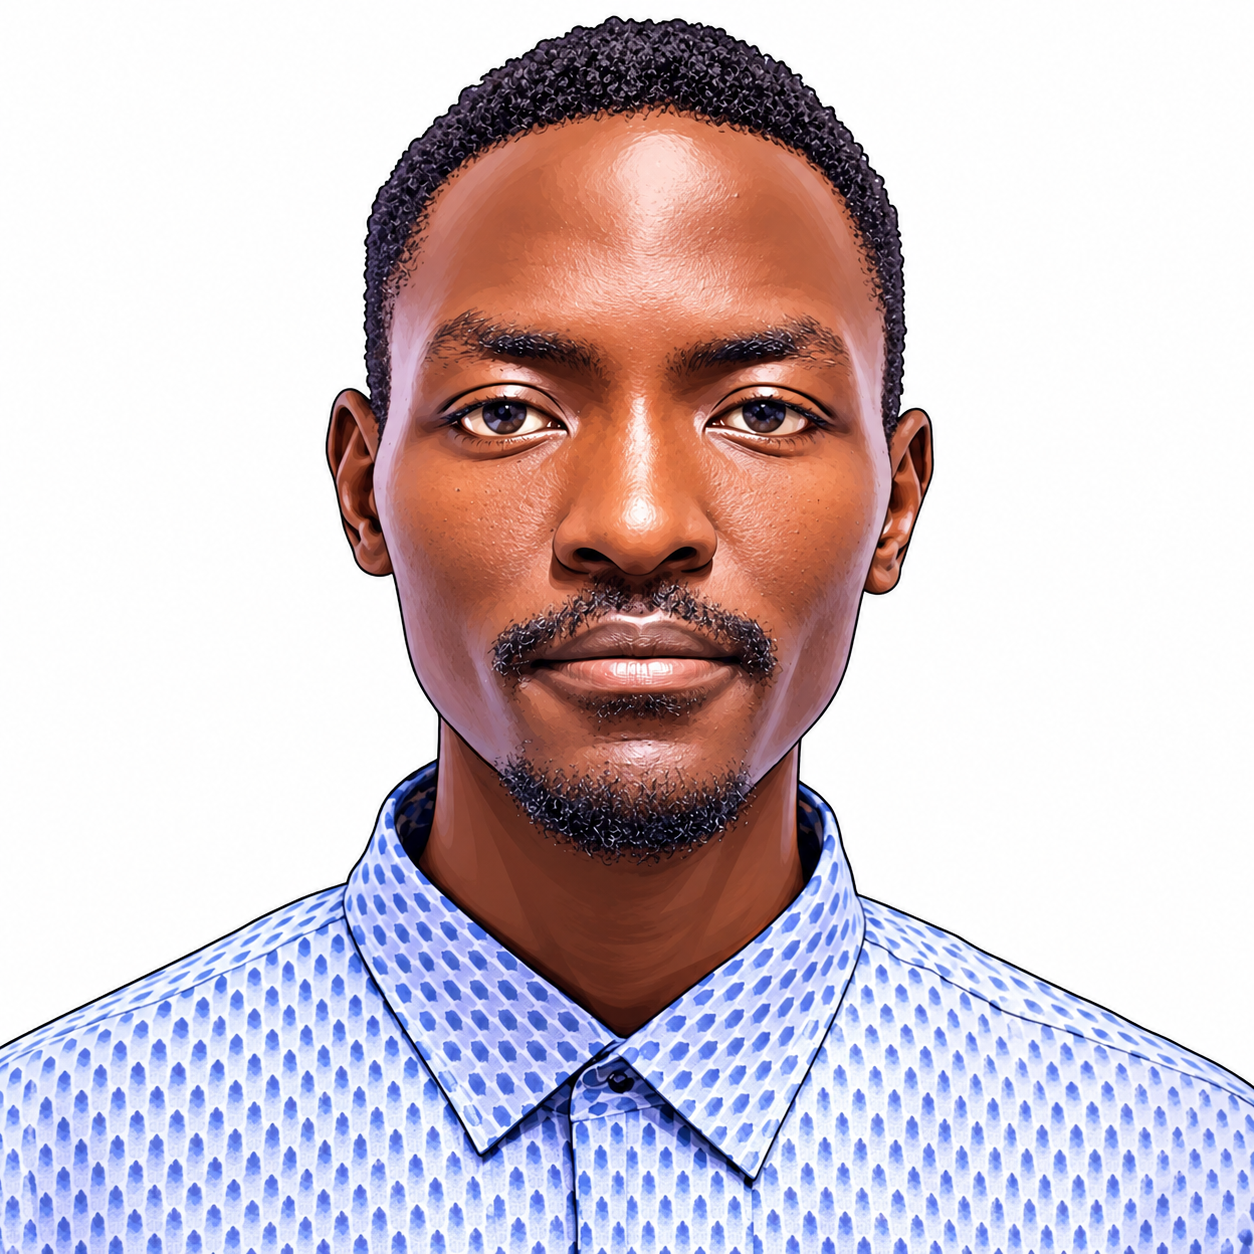
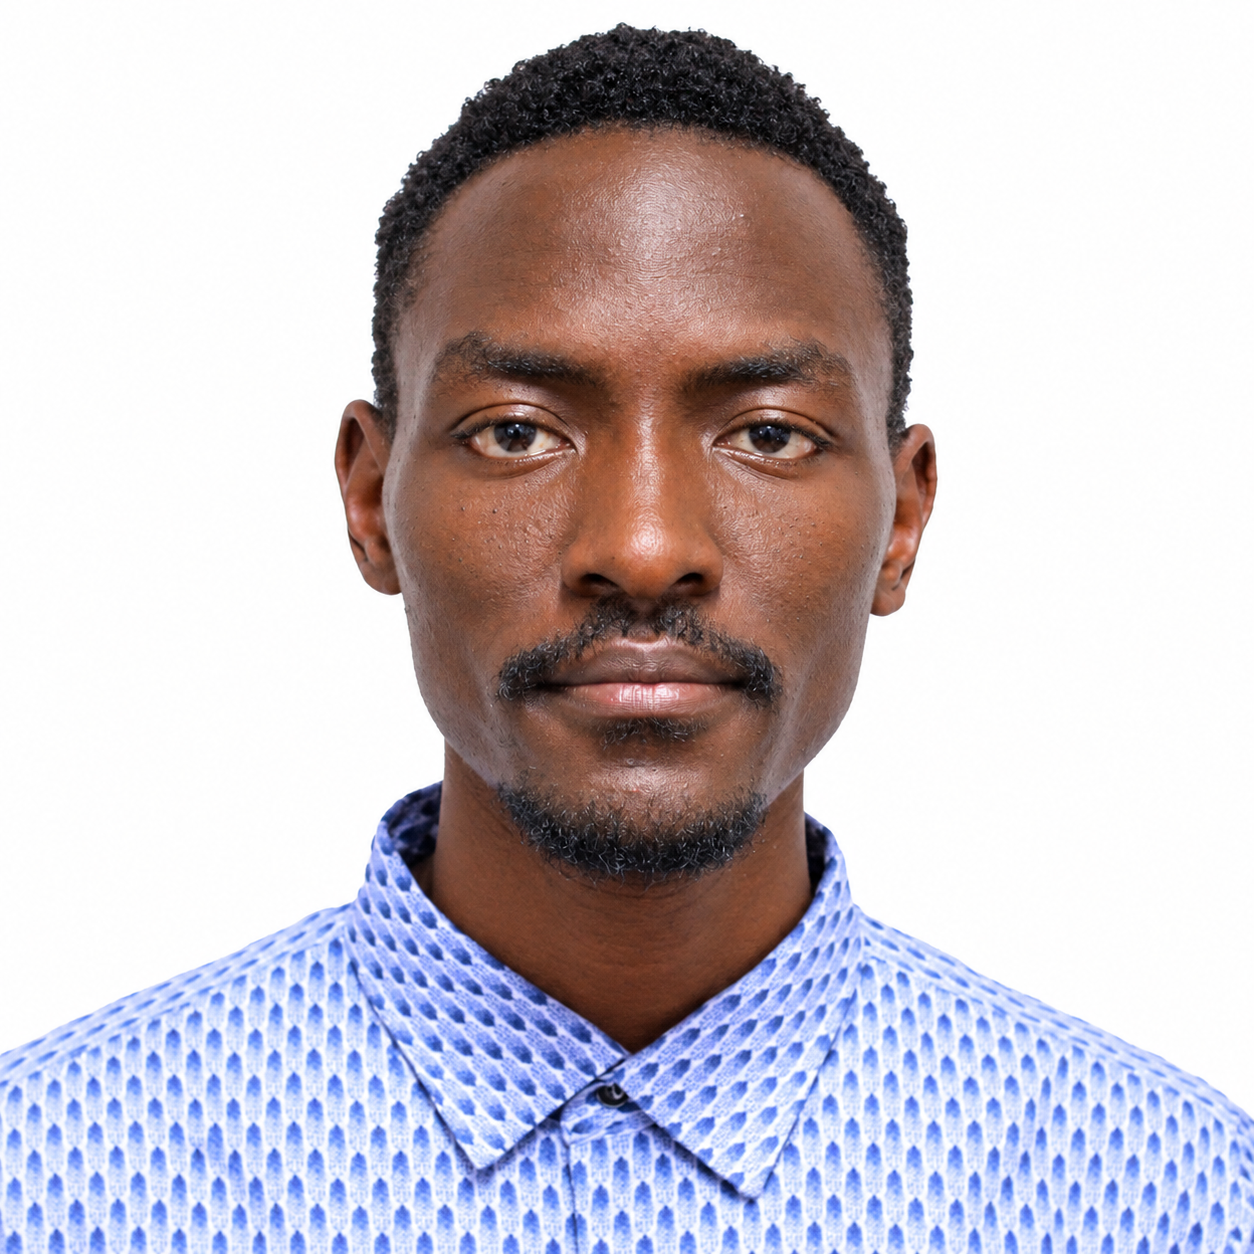
Add files via upload

diff --git a/about.html b/about.html
@@ -218,7 +218,7 @@ We are building a home for animation — and an ecosystem for the people who bri
                 <div class="team-grid">
 
                     <article class="team-card">
-                        <img src="FOUNDER (2).png" alt="Placeholder portrait for the founder">
+                        <img src="FOUNDER.png" alt="Placeholder portrait for the founder">
 
                         <div class="team-card-body">
                             <span class="team-role">Founder</span>
@@ -448,7 +448,7 @@ Coordinates creator onboarding and engagement, helping animators understand the 
 
         <div class="container footer-bottom">
             <span>© <span id="year"></span> Nettoon. All rights reserved.</span>
-            <span  style="display: none;">Built for the worlds we haven’t imagined yet.</span>
+         
             <a href="index.html#top">Back to top ↑</a>
         </div>
 

diff --git a/creators.html b/creators.html
@@ -315,7 +315,7 @@ In biology, an ecosystem is a community of living organisms (biotic factors) int
 
             <div class="footer-note">
 
-                <span class="footer-note-label">OUR NORTH STAR</span>
+                <span class="footer-note-label" style="display: none;">OUR NORTH STAR</span>
 
                 <p>What if the only limit to animation was your Imagination?</p>
 
@@ -329,7 +329,7 @@ In biology, an ecosystem is a community of living organisms (biotic factors) int
 
             <span>© <span id="year"></span> Nettoon. All rights reserved.</span>
 
-            <span>Built for the worlds we haven’t imagined yet.</span>
+   
 
             <a href="index.html#top">Back to top ↑</a>
 

diff --git a/contact.html b/contact.html
@@ -241,11 +241,11 @@
 
             <div class="footer-note">
 
-                <span class="footer-note-label">OUR NORTH STAR</span>
+                <span class="footer-note-label" style="display: none;">OUR NORTH STAR</span>
 
                 <p>Make animation easier to find, share, and experience.</p>
 
-                <span class="footer-symbol">✳</span>
+        
 
             </div>
 
@@ -255,7 +255,7 @@
 
             <span>© <span id="year"></span> Nettoon. All rights reserved.</span>
 
-            <span>Built for the worlds we haven’t imagined yet.</span>
+
 
             <a href="index.html#top">Back to top ↑</a>
 
